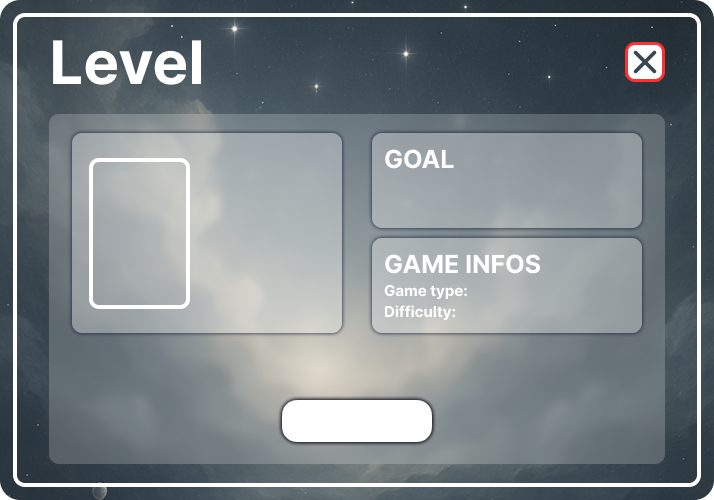
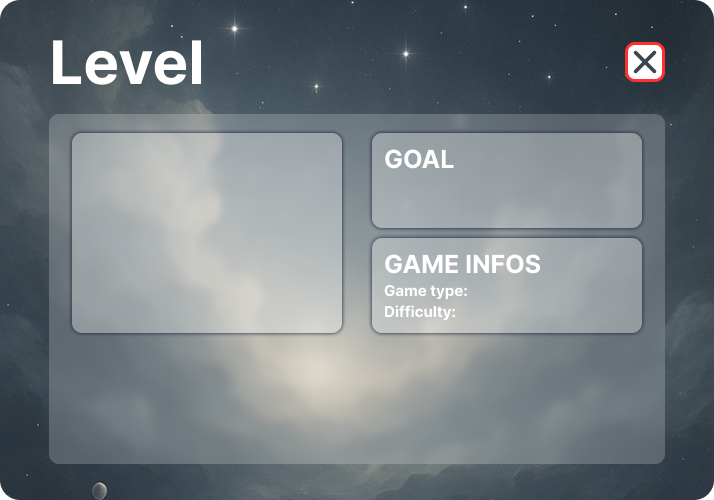
lavoro 10/05/2025

Changed region(s): [[0.0, 0.0, 0.986, 0.99], [0.3697, 0.78, 0.6162, 0.9], [0.1232, 0.3, 0.2773, 0.63]]

diff --git a/core/src/codes/sorgente/Lobby/UIManager.java b/core/src/codes/sorgente/Lobby/UIManager.java
@@ -59,7 +59,7 @@ public class UIManager implements ResourceLoader {
     private final HashMap<Integer, Texture> mapLobby; // schermate lobby
     private final HashMap<Integer, Texture> mapAvatarsImgs; // immagini avatar
     private final HashMap<Integer, Avatar> mapAvatars; // oggetti avatar
-    private final HashMap<Integer, Spacecraft> mapSpacecrafts; // oggetti navicella
+    private static HashMap<Integer, Spacecraft> mapSpacecrafts; // oggetti navicella
     private final List<SpacecraftData> spacecrafts;
 
     // arraylist delle pagine secondarie
@@ -81,7 +81,7 @@ public class UIManager implements ResourceLoader {
         this.mapLobby = new HashMap<>();
         this.mapAvatarsImgs = new HashMap<>();
         this.mapAvatars = new HashMap<>();
-        this.mapSpacecrafts = new HashMap<>();
+        mapSpacecrafts = new HashMap<>();
         this.buttonsOver = new Texture[10];
 
         // mouse
@@ -93,7 +93,9 @@ public class UIManager implements ResourceLoader {
 
 
         // caricamento navicella utente
-        selectedSp = createSpacecrafts(); // navicelle e recupero navicella utente
+        createSpacecrafts();
+        // selezione navicella utente
+        selectedSp = selectSpacecraft();
 
         // caricamento risorse
         createMissions();
@@ -274,7 +276,7 @@ public class UIManager implements ResourceLoader {
         mapAvatars.put(3, new Avatar("Cap. Woka", null));
         mapAvatars.put(4, new Avatar("Cooper", "Complete Level 3"));
         mapAvatars.put(5, new Avatar("Jessica", "Complete Level 6"));
-        mapAvatars.put(6, new Avatar("Scot", "Complete Level 9"));
+        mapAvatars.put(6, new Avatar("Scott", "Complete Level 9"));
         mapAvatars.put(7, new Avatar("Stephanie", "Complete Level 13"));
         mapAvatars.put(8, new Avatar("Amin", "Complete Level 16"));
         mapAvatars.put(9, new Avatar("Samira", "Complete Level 19"));
@@ -291,7 +293,7 @@ public class UIManager implements ResourceLoader {
     }
 
     // metodo per creare le navicelle
-    public Spacecraft createSpacecrafts() {
+    public void createSpacecrafts() {
         // nomi delle navicelle
         String[] names = {"Omega", "Idra", "Woka", "Pegaso", "Ares", "Andvari", "Siko", "Fenixia", "Selen", "Centauro",
             "Zephyr", "Malloc", "Orion", "Asgard", "Galahad", "Seraphis", "Beowulf", "Scylla", "Keto", "Efron",
@@ -329,12 +331,13 @@ public class UIManager implements ResourceLoader {
             // ordine potenze: 0:bonus punti, 1:velocità navicella, 2:vel laser
             mapSpacecrafts.put(i, new Spacecraft(names[i], imagePaths[i], new Texture(laserPaths[i]), attributes[i][0], attributes[i][1], attributes[i][2]));
         }
+    }
 
+    // metodo per selezionare la navicella: viene chiamato alla creazione della Lobby e al cambio navicella
+    public static Spacecraft selectSpacecraft() {
         // recupero navicella utente
         Object spacecraft = DataUserManager.getProgress("spacecraft");
-        selectedSp = mapSpacecrafts.get((int) spacecraft); // navicella utente
-
-        return selectedSp;
+        return mapSpacecrafts.get((int) spacecraft); // return navicella
     }
 
     public void createMissions() {
@@ -462,6 +465,13 @@ public class UIManager implements ResourceLoader {
 
     // metodo per mostrare i contenuti nelle pagine (testi, immagini, icone)
     public void showItems(SpriteBatch screen) {
+        // cambio navicella in caso di nuova selezione
+        if (InputManager.isSPChanged) {
+            selectedSp = selectSpacecraft(); // nuovo oggetto navicella
+            spImg = new Texture(selectedSp.getPathImg()); // caricamento della nuova immagine
+            InputManager.isSPChanged = false; // cambio stato selezione navicella
+        }
+
         // background principale (NO la pagina 4, viene mostrata dal suo metodo)
         if (InputManager.page != 4) screen.draw(mapLobby.get(InputManager.page), 0, 0);
 
@@ -669,7 +679,7 @@ public class UIManager implements ResourceLoader {
                         screen.draw(avatarsCovered[i], x, y);
                     }
                     else {
-                        fontBoldWhite15.draw(screen, mapAvatars.get(i).getNome(), x, y-15);
+                        fontBoldWhite15.draw(screen, mapAvatars.get(i).getName(), x, y-15);
                         screen.draw(avatars[i], x, y);
                     }
 

diff --git a/core/src/codes/sorgente/Lobby/InputManager.java b/core/src/codes/sorgente/Lobby/InputManager.java
@@ -14,6 +14,7 @@ import com.badlogic.gdx.InputProcessor;
 import com.badlogic.gdx.math.Rectangle;
 import sorgente.DataUserManager;
 import sorgente.Entities.Avatar;
+import sorgente.Entities.Spacecraft;
 import sorgente.GameMods.ClassicGame;
 import sorgente.GameMods.SpaceBattle;
 import sorgente.GameMods.SpaceJourney.SpaceJourney;
@@ -42,7 +43,9 @@ public class InputManager implements InputProcessor {
     // boolean per le carte speciali
     public static boolean goldHeart, shield, superLaser, doublePoints;
     // nome navicella
-    private final String nameSp = UIManager.selectedSp.getName();
+    private String nameSp = UIManager.selectedSp.getName();
+    // stato cambio navicella
+    protected static boolean isSPChanged = false;
 
     // difficoltà classic game e space battle
     private int diffCG = (int)DataUserManager.getProgress("diff_classic_game");
@@ -423,7 +426,15 @@ public class InputManager implements InputProcessor {
                     if (area.contains(screenX, screenY+(maxScrollY - scrollY))) {
                         selectedId = entry.getValue(); // recupero id navicella selezionata
                         // salvataggio navicella scelta se sbloccata
-                        if (SpacecraftData.isAchieved(selectedId)) DataUserManager.setProgress("spacecraft", selectedId);
+                        if (SpacecraftData.isAchieved(selectedId)) {
+                            DataUserManager.setProgress("spacecraft", selectedId);
+                            // cambio stato selezione a true
+                            isSPChanged = true;
+                            // cambio nome navicella con creazione nuovo oggetto
+                            Spacecraft s = UIManager.selectSpacecraft();
+                            nameSp = s.getName();
+                            System.out.println(nameSp);
+                        }
                         break;
                     }
                 }

diff --git a/core/src/codes/sorgente/GameMods/SpaceJourney/SpaceJourneyUI.java b/core/src/codes/sorgente/GameMods/SpaceJourney/SpaceJourneyUI.java
@@ -255,9 +255,10 @@ public class SpaceJourneyUI implements ResourceLoader {
         screen.draw(baseInfoLevel, 143, 100);
 
         // bordo, pulsante avvio, rectAvatar
-        screen.draw(imgBorders[SpaceJourney.numGalaxy], 156, 115);
-        screen.draw(imgRectsEnemies[SpaceJourney.numGalaxy], 200, 250);
-        screen.draw(imgButtonsStart[SpaceJourney.numGalaxy], 425, 145);
+        screen.draw(imgBorders[SpaceJourney.numGalaxy-1], 156, 113); // bordo
+        screen.draw(imgGuardians[SpaceJourney.numGalaxy-1], 234, 292); // nemico
+        screen.draw(imgRectsEnemies[SpaceJourney.numGalaxy-1], 233, 291); // rettangolo nemico
+        screen.draw(imgButtonsStart[SpaceJourney.numGalaxy-1], 420, 152); // pulsante avvio partita
     }
 
     // metodo per stampare le informazione di sblocco di un livello

diff --git a/core/src/codes/sorgente/Entities/Avatar.java b/core/src/codes/sorgente/Entities/Avatar.java
@@ -53,7 +53,7 @@ public class Avatar {
     }
 
     // getter nome
-    public String getNome() {
+    public String getName() {
         return nome;
     }
 
